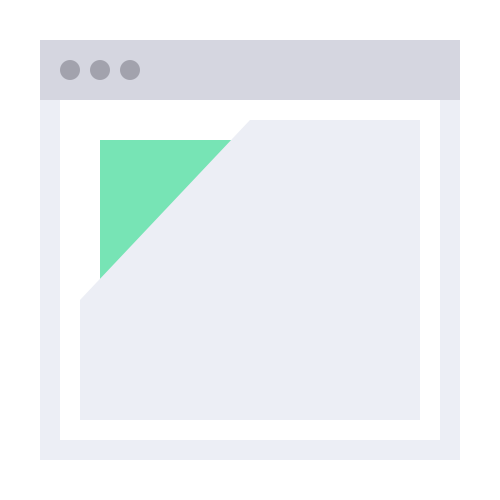
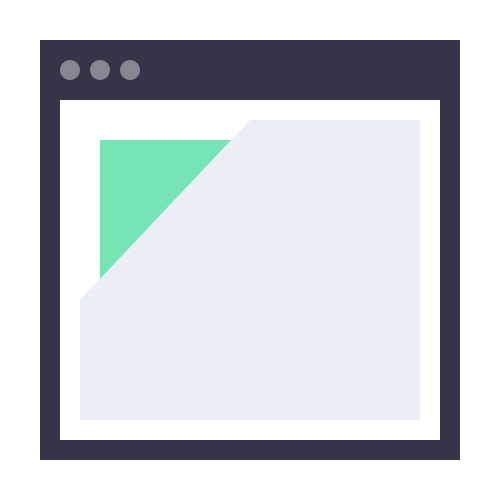
Update demo site colors

Changed region(s): [[0.06, 0.06, 0.93, 0.93]]

diff --git a/app/app/app.component.html b/app/app/app.component.html
@@ -1,22 +1,10 @@
-<a href="https://github.com/krisztianpuska/fractures" class="github-corner"><svg width="80" height="80" viewBox="0 0 250 250" style="fill:#3C3C50; color:#fff; position: absolute; top: 0; border: 0; right: 0;"><path d="M0,0 L115,115 L130,115 L142,142 L250,250 L250,0 Z"></path><path d="M128.3,109.0 C113.8,99.7 119.0,89.6 119.0,89.6 C122.0,82.7 120.5,78.6 120.5,78.6 C119.2,72.0 123.4,76.3 123.4,76.3 C127.3,80.9 125.5,87.3 125.5,87.3 C122.9,97.6 130.6,101.9 134.4,103.2" fill="currentColor" style="transform-origin: 130px 106px;" class="octo-arm"></path><path d="M115.0,115.0 C114.9,115.1 118.7,116.5 119.8,115.4 L133.7,101.6 C136.9,99.2 139.9,98.4 142.2,98.6 C133.8,88.0 127.5,74.4 143.8,58.0 C148.5,53.4 154.0,51.2 159.7,51.0 C160.3,49.4 163.2,43.6 171.4,40.1 C171.4,40.1 176.1,42.5 178.8,56.2 C183.1,58.6 187.2,61.8 190.9,65.4 C194.5,69.0 197.7,73.2 200.1,77.6 C213.8,80.2 216.3,84.9 216.3,84.9 C212.7,93.1 206.9,96.0 205.4,96.6 C205.1,102.4 203.0,107.8 198.3,112.5 C181.9,128.9 168.3,122.5 157.7,114.1 C157.9,116.9 156.7,120.9 152.7,124.9 L141.0,136.5 C139.8,137.7 141.6,141.9 141.8,141.8 Z" fill="currentColor" class="octo-body"></path></svg></a><style>.github-corner:hover .octo-arm{animation:octocat-wave 560ms ease-in-out}@keyframes octocat-wave{0%,100%{transform:rotate(0)}20%,60%{transform:rotate(-25deg)}40%,80%{transform:rotate(10deg)}}@media (max-width:500px){.github-corner:hover .octo-arm{animation:none}.github-corner .octo-arm{animation:octocat-wave 560ms ease-in-out}}</style>
+<a href="https://github.com/krisztianpuska/fractures" class="github-corner"><svg width="80" height="80" viewBox="0 0 250 250" style="fill:#3D4275; color:#fff; position: absolute; top: 0; border: 0; right: 0;"><path d="M0,0 L115,115 L130,115 L142,142 L250,250 L250,0 Z"></path><path d="M128.3,109.0 C113.8,99.7 119.0,89.6 119.0,89.6 C122.0,82.7 120.5,78.6 120.5,78.6 C119.2,72.0 123.4,76.3 123.4,76.3 C127.3,80.9 125.5,87.3 125.5,87.3 C122.9,97.6 130.6,101.9 134.4,103.2" fill="currentColor" style="transform-origin: 130px 106px;" class="octo-arm"></path><path d="M115.0,115.0 C114.9,115.1 118.7,116.5 119.8,115.4 L133.7,101.6 C136.9,99.2 139.9,98.4 142.2,98.6 C133.8,88.0 127.5,74.4 143.8,58.0 C148.5,53.4 154.0,51.2 159.7,51.0 C160.3,49.4 163.2,43.6 171.4,40.1 C171.4,40.1 176.1,42.5 178.8,56.2 C183.1,58.6 187.2,61.8 190.9,65.4 C194.5,69.0 197.7,73.2 200.1,77.6 C213.8,80.2 216.3,84.9 216.3,84.9 C212.7,93.1 206.9,96.0 205.4,96.6 C205.1,102.4 203.0,107.8 198.3,112.5 C181.9,128.9 168.3,122.5 157.7,114.1 C157.9,116.9 156.7,120.9 152.7,124.9 L141.0,136.5 C139.8,137.7 141.6,141.9 141.8,141.8 Z" fill="currentColor" class="octo-body"></path></svg></a><style>.github-corner:hover .octo-arm{animation:octocat-wave 560ms ease-in-out}@keyframes octocat-wave{0%,100%{transform:rotate(0)}20%,60%{transform:rotate(-25deg)}40%,80%{transform:rotate(10deg)}}@media (max-width:500px){.github-corner:hover .octo-arm{animation:none}.github-corner .octo-arm{animation:octocat-wave 560ms ease-in-out}}</style>
 <main class="main">
 
 	<!-- Hero -->
 	<div class="flex flex--column">
-		<div
-			class="flex flex--center flex--column py-4 white center minvh-75 index-hero"
-			style="
-				background: -webkit-linear-gradient(45deg, #5D6FBA , #60BBF3);
-				background: linear-gradient(45deg, #5D6FBA , #60BBF3);
-			">
-			<img
[1 lines of base64/hex data omitted]
-				style="
-					height: 120px;
-					width: 120px;
-				"
-				alt="fractures"
-				class="mb-2">
+		<div class="flex flex--center flex--column py-4 white center minvh-66 bg--light">
+			<img src="/app/app/images/fractures.svg" style="height: 160px; width: 160px;" alt="fractures" class="mb-2">
 			<h1>fractures</h1>
 			<p>Atomic CSS toolkit.</p>
 			<div class="mt-2">
@@ -24,11 +12,11 @@
 					href="https://github.com/krisztianpuska/fractures/releases"
 					class="btn btn-dark">
 					Download
-					<small class="regular silver">{{ meta.size }} kb</small>
+					<small class="regular color--light">{{ meta.size }} kb</small>
 				</a>
 			</div>
 		</div>
-		<div class="white py-3" style="background-color: #3C3C50;">
+		<div class="bg--light white py-3">
 			<div class="container-large flex flex--collapse">
 				<div class="flex flex--ycenter grow-1 mb-2 mr-3">
 					<img
@@ -39,7 +27,7 @@
 						class="mr-2">
 					<div class="grow-1">
 						<h3 class="regular">What it does?</h3>
-						<p class="silver">Helps you bootstrap design-systems and prototypes by providing a set of non-blocking, atomic, utility classes.</p>
+						<p>Helps you bootstrap design-systems and prototypes by providing a set of non-blocking, atomic, utility classes.</p>
 					</div>
 				</div>
 				<div class="flex flex--ycenter grow-1 mb-2">
@@ -51,7 +39,7 @@
 						class="mr-2">
 					<div class="grow-1">
 						<h3 class="regular">That's it?</h3>
-						<p class="silver">It also soft resets HTML elements and sets a basic typescale. Leaves UI untouched.</p>
+						<p>It also soft resets HTML elements and sets a basic typescale. Leaves UI untouched.</p>
 					</div>
 				</div>
 			</div>

diff --git a/app/shared/styles/body.css b/app/shared/styles/body.css
@@ -1,10 +1,14 @@
 body {
 	background-color: #ECEEF5;
-	color: #3C3C50;
+	color: #575765;
 
 	font-family: "Arimo", Arial;
 	font-size: 16px; /* Fractures setup */
 	line-height: 1.5; /* Fractures setup */
 }
 
-a { color: #3C3C50; }
+a { color: #575765; }
+
+.color--light { color: #A2A2AD; }
+.bg--light { background-color: #AACCE1; }
+.bg--dark { background-color: #5D6FBA; }

diff --git a/app/shared/styles/btn.css b/app/shared/styles/btn.css
@@ -23,16 +23,16 @@
 /*White*/
 .btn-white {
 	background-color: white;
-	color: #3C3C50;
+	color: #3D4275;
 }
 
 /*Dark*/
 .btn-dark {
-	background-color: #3C3C50;
+	background-color: #3D4275;
 	color: white;
 }
 
-.btn-dark:hover { background-color: #2F2F38; }
+.btn-dark:hover { background-color: #353547; }
 
 /*Tag*/
 .btn-tag {
